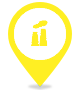
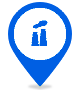
IMJV-6617: Netkernel: kleuren aanpassen

Changed region(s): [[0.1, 0.0222, 0.9, 0.9556], [0.375, 0.2222, 0.6, 0.5111]]

diff --git a/src/css/_variables.scss b/src/css/_variables.scss
@@ -7,9 +7,9 @@ $font-heading-light: "Flanders Art Sans Light", "Lucida Sans Unicode", "Lucida G
 
 $font-footer-logo: "Flanders Art Sans", "Lucida Sans Unicode", "Lucida Grande", sans-serif;
 
-$font-text: "Lato", "Lucida Sans Unicode", "Lucida Grande",sans-serif;
-$font-text-light: "Lato Light", "Lucida Sans Unicode", "Lucida Grande",sans-serif;
-$font-text-hairline: "Lato Hairline", "Lucida Sans Unicode", "Lucida Grande",sans-serif;
+$font-text: "Flanders Art Sans", "Lucida Sans Unicode", "Lucida Grande", sans-serif;
+$font-text-light: "Flanders Art Sans Light", "Lucida Sans Unicode", "Lucida Grande", sans-serif;
+$font-text-hairline: "Flanders Art Sans Light", "Lucida Sans Unicode", "Lucida Grande", sans-serif;
 
 // palette
 

diff --git a/src/css/theme.scss b/src/css/theme.scss
@@ -155,6 +155,7 @@ body {
       border: 1px solid $border-color-dark;
       vertical-align: top;
       margin-bottom: 5px;
+      font-family: inherit;
 
       &:focus {
         border: 1px solid $border-color-yellow;

diff --git a/src/css/button.scss b/src/css/button.scss
@@ -10,6 +10,7 @@
     background-color: $blue;
     border: none;
     color: #fff;
+    font-family: inherit;
   
     &:hover, &:focus, &::-moz-focus-inner {
       background-color: $blue;
